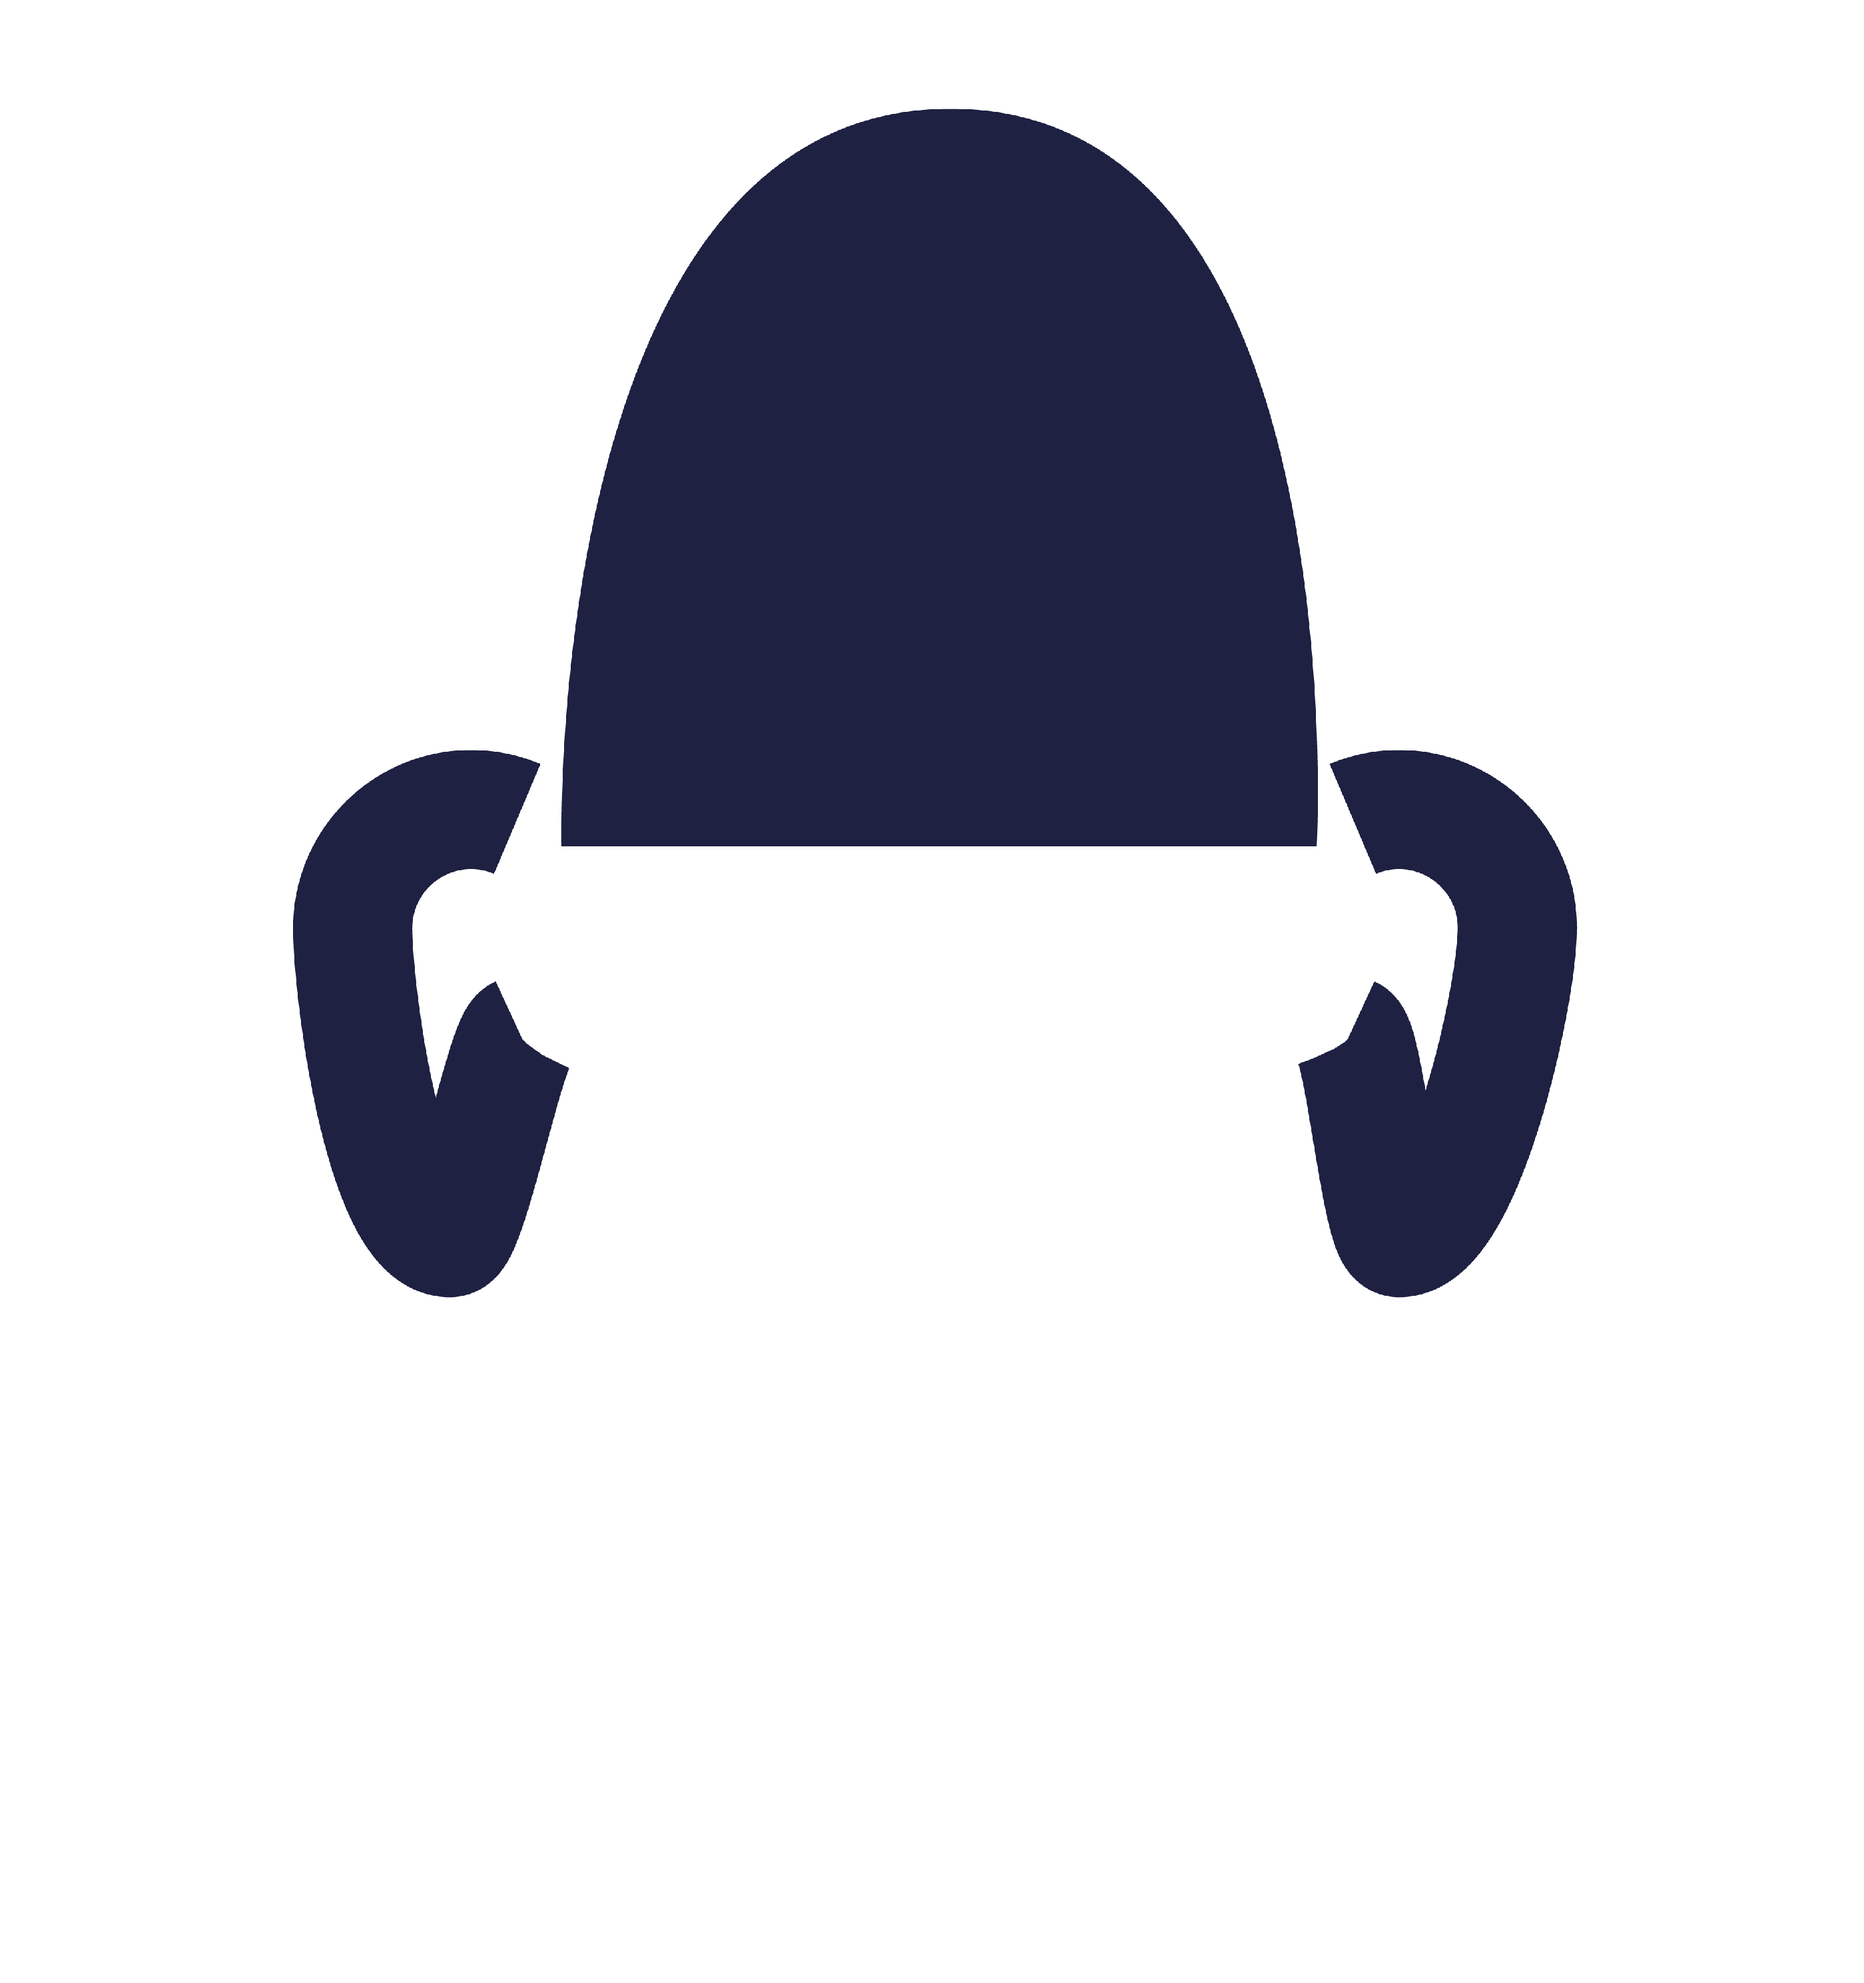
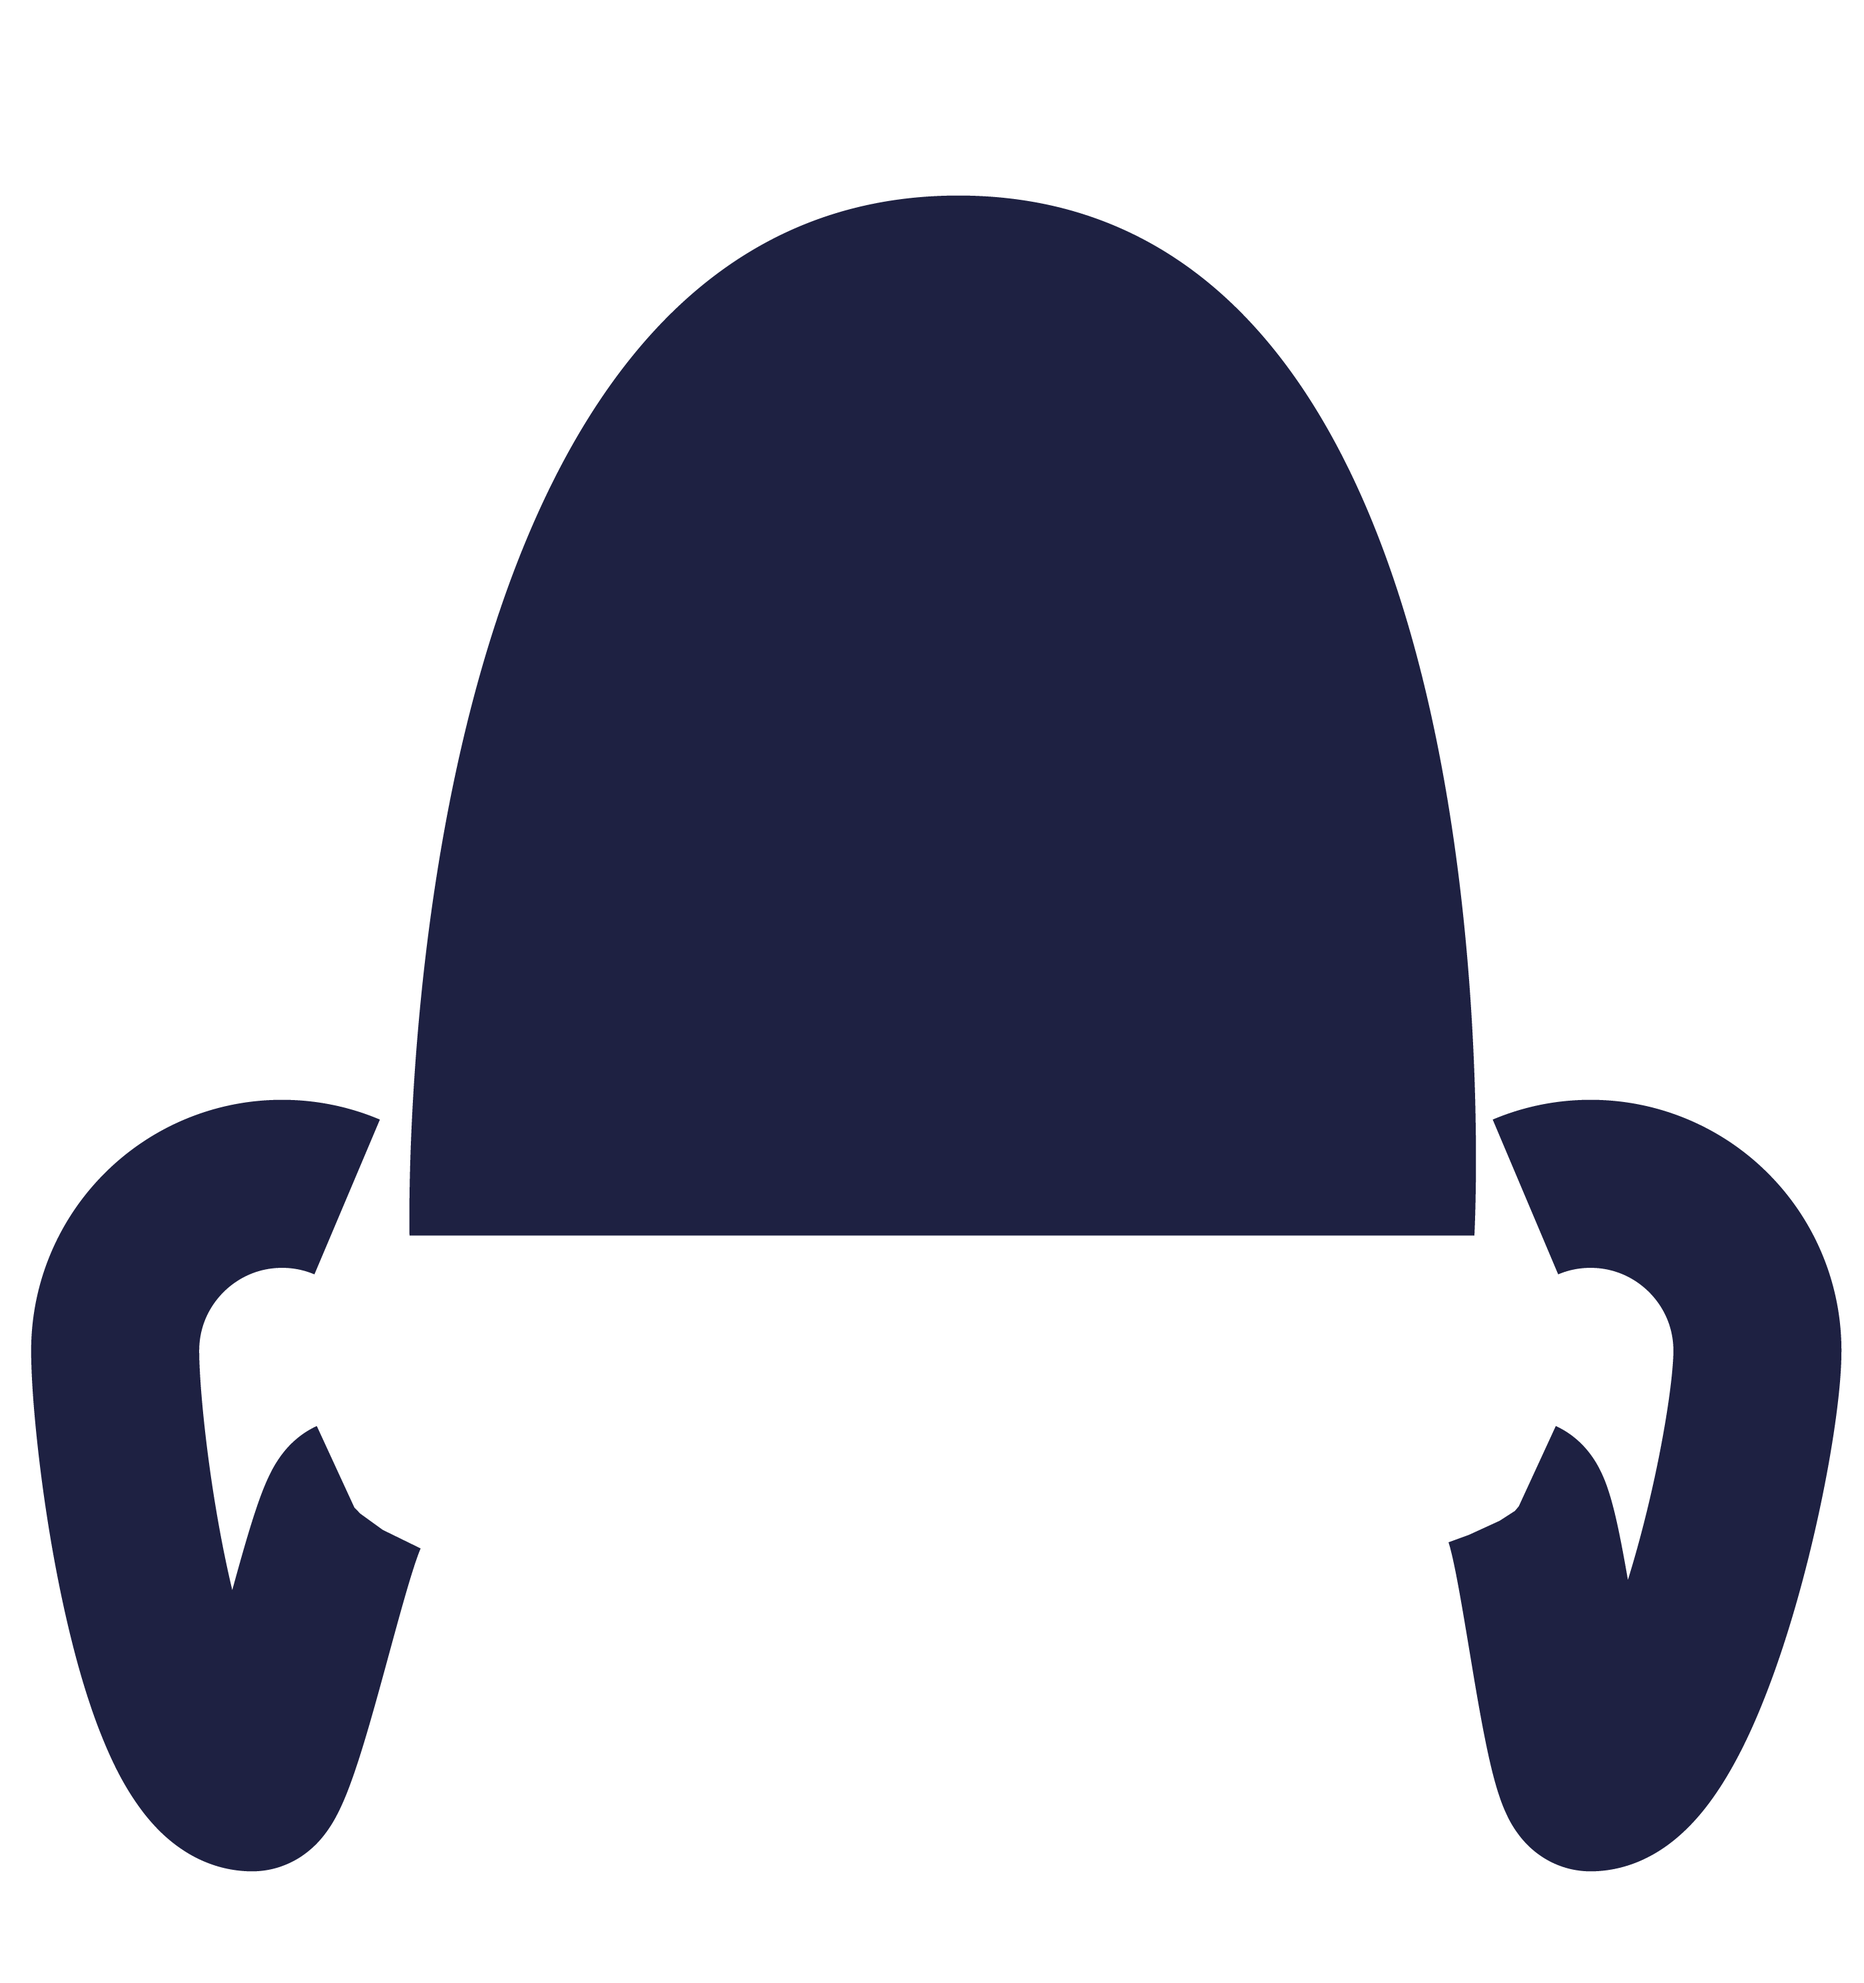
test face resized

Changed region(s): [[0.0, 0.1561, 0.9946, 0.9681], [0.3419, 0.0312, 0.6527, 0.1561]]

diff --git a/www/sketch.js b/www/sketch.js
@@ -7,7 +7,7 @@ var headImages = new Array("nothing");
 var eyeImages = new Array("nothing");
 var noseImages = new Array("nothing");
 var mouthImages = new Array("noothing"); 
-// var headImage, eyeImage, noseImage, mouthImage;
+var headImage, eyeImage, noseImage, mouthImage, eyebrowImage, lipBottomImage, lipTopImage;
 var faceIndex = 1;
 var maxIndex = 10;
 var myCamera;
@@ -53,10 +53,14 @@ function setup() {
     for (let i = 1; i < maxIndex; i++) {
         mouthImages.push(loadImage("assets/img/faces/mouth/mouth-"+i.toString().padStart(2,"0")+".png"));
     }
-    // headImage = loadImage("assets/img/head2.png");
-    // eyeImage = loadImage("assets/img/eye2.png");
-    // noseImage = loadImage("assets/img/nose2.png");
-    // mouthImage = loadImage("assets/img/mouth2.png");
+
+    headImage = loadImage("assets/img/faces/head/head.png");
+    eyeImage = loadImage("assets/img/faces/eye/eye.png");
+    noseImage = loadImage("assets/img/faces/nose/nose.png");
+    mouthImage = loadImage("assets/img/faces/mouth/mouth.png");
+    eyebrowImage = loadImage("assets/img/faces/eyebrow/eyebrow.png");
+    lipBottomImage = loadImage("assets/img/faces/bottom-lip/bottom-lip.png"); 
+    lipTopImage = loadImage("assets/img/faces/top-lip/top-lip.png");
 
     textFont(fontAstronaut);
     textSize(windowHeight / 20);
@@ -72,7 +76,8 @@ function draw() {
     if (showPoints == true) drawPoints();
 
     fill(255,255,255);
-    text('"i": image / "p": points / "e" elements / "1-9": face styles', windowWidth/2, windowHeight-windowHeight/20*2);  
+    // text('"i": image / "p": points / "e" elements / "1-9": face styles', windowWidth/2, windowHeight-windowHeight/20*2);  
+    text('"i": image / "p": points / "e" elements', windowWidth/2, windowHeight-windowHeight/20*2);  
     
 }
 
@@ -87,21 +92,25 @@ function drawElements() {
         var eye1pos = createVector(positions[27][0],positions[27][1]);
         var eye2pos = createVector(positions[32][0],positions[32][1]);
         var nosepos = createVector(positions[41][0],positions[41][1]);
-        var mouthpos = createVector(positions[57][0],positions[57][1]);    
+        var mouthpos = createVector(positions[57][0],positions[57][1]);   
+        var eyebrow1pos = createVector(positions[21][0],positions[21][1]);
+        var eyebrow2pos = createVector(positions[17][0],positions[17][1]);
+        var liptoppos = createVector(positions[47][0],positions[47][1]);
+        var lipbottompos = createVector(positions[53][0],positions[53][1]);
         
         stroke(255,0,0);
         // line(p1.x,p1.y,p2.x, p2.y);
         
         noFill();
         
-        stroke(0,255,0);
-        ellipse(eye1pos.x,eye1pos.y,10,10);
-        ellipse(eye2pos.x, eye2pos.y,10,10);
-        ellipse(mouthpos.x, mouthpos.y,10,10);
+        // stroke(0,255,0);
+        // ellipse(eye1pos.x,eye1pos.y,10,10);
+        // ellipse(eye2pos.x, eye2pos.y,10,10);
+        // ellipse(mouthpos.x, mouthpos.y,10,10);
         
-        stroke(0,0,255);
-        ellipse(nosepos.x, nosepos.y,10,10);
-        ellipse(headpos.x, headpos.y,10,10);
+        // stroke(0,0,255);
+        // ellipse(nosepos.x, nosepos.y,10,10);
+        // ellipse(headpos.x, headpos.y,10,10);
         
         
         // angle in radians
@@ -113,32 +122,65 @@ function drawElements() {
         push();
         translate(headpos.x,headpos.y); 
         rotate(angleRad + PI/2);
-        image(headImages[faceIndex],0,0,mSize*2,mSize*2);
+        // image(headImages[faceIndex],0,0,mSize/2,mSize/2);
+        image(headImage,0,0,mSize/1,mSize/1);
         pop();
 
         push();
         translate(eye1pos.x,eye1pos.y); 
         rotate(angleRad + PI/2);
-        image(eyeImages[faceIndex],0,0,mSize/2,mSize/2);
+        // image(eyeImages[faceIndex],0,0,mSize/2,mSize/2);
+        image(eyeImage,0,0,mSize/1,mSize/1);
         pop();
         
         push();        
         translate(eye2pos.x,eye2pos.y); 
         scale(-1, 1);
         rotate(-angleRad -PI/2);
-        image(eyeImages[faceIndex],0,0,mSize/2,mSize/2);
+        // image(eyeImages[faceIndex],0,0,mSize/2,mSize/2);
+        image(eyeImage,0,0,mSize/1,mSize/1);
+        pop();
+
+        push();
+        translate(eyebrow1pos.x,eyebrow1pos.y); 
+        rotate(angleRad + PI/2);
+        // image(eyebrowImages[faceIndex],0,0,mSize/2,mSize/2);
+        image(eyebrowImage,0,0,mSize/1,mSize/1);
         pop();
         
+        push();        
+        translate(eyebrow2pos.x,eyebrow2pos.y); 
+        scale(-1, 1);
+        rotate(-angleRad -PI/2);
+        // image(eyebrowImages[faceIndex],0,0,mSize/2,mSize/2);
+        image(eyebrowImage,0,0,mSize/1,mSize/1);
+        pop();
+        
+        // push();
+        // translate(mouthpos.x,mouthpos.y); 
+        // rotate(angleRad + PI/2);
+        // image(mouthImages[faceIndex],0,0,mSize*2,mSize*2);
+        // pop();
+
         push();
-        translate(mouthpos.x,mouthpos.y); 
+        translate(liptoppos.x,liptoppos.y); 
         rotate(angleRad + PI/2);
-        image(mouthImages[faceIndex],0,0,mSize*2,mSize*2);
+        // image(lipTopImages[faceIndex],0,0,mSize/2,mSize/2);
+        image(lipTopImage,0,0,mSize/2,mSize/2);
+        pop();
+
+        push();
+        translate(lipbottompos.x,lipbottompos.y); 
+        rotate(angleRad + PI/2);
+        // image(lipBottomImages[faceIndex],0,0,mSize/2,mSize/2);
+        image(lipBottomImage,0,0,mSize/1,mSize/1);
         pop();
         
         push();
         translate(nosepos.x,nosepos.y+10); 
         rotate(angleRad + PI/2);
-        image(noseImages[faceIndex],0,0,mSize,mSize);
+        // image(noseImages[faceIndex],0,0,mSize,mSize);
+        image(noseImage,0,0,mSize/1,mSize/1);
         pop();    
     }
 
